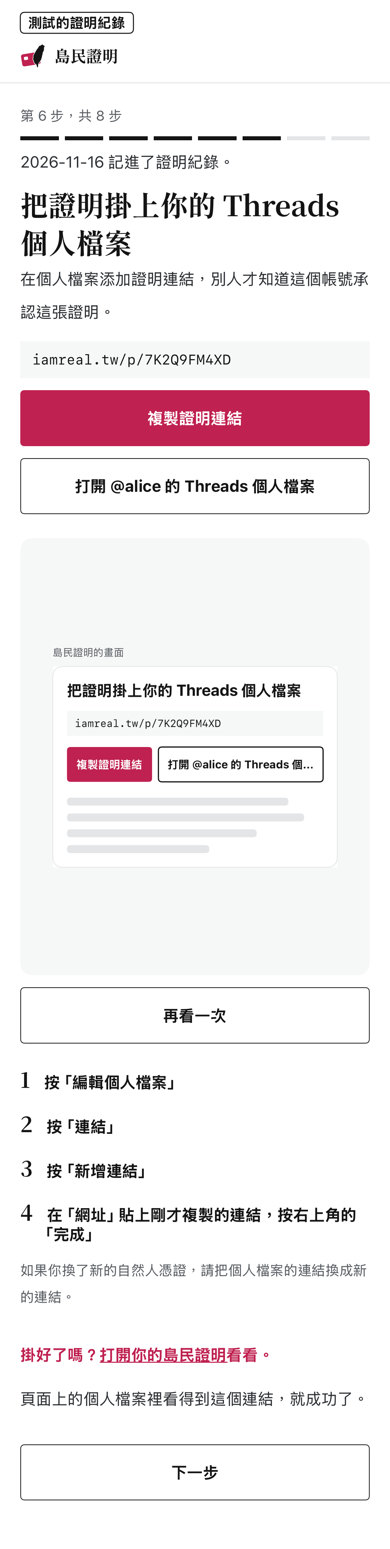
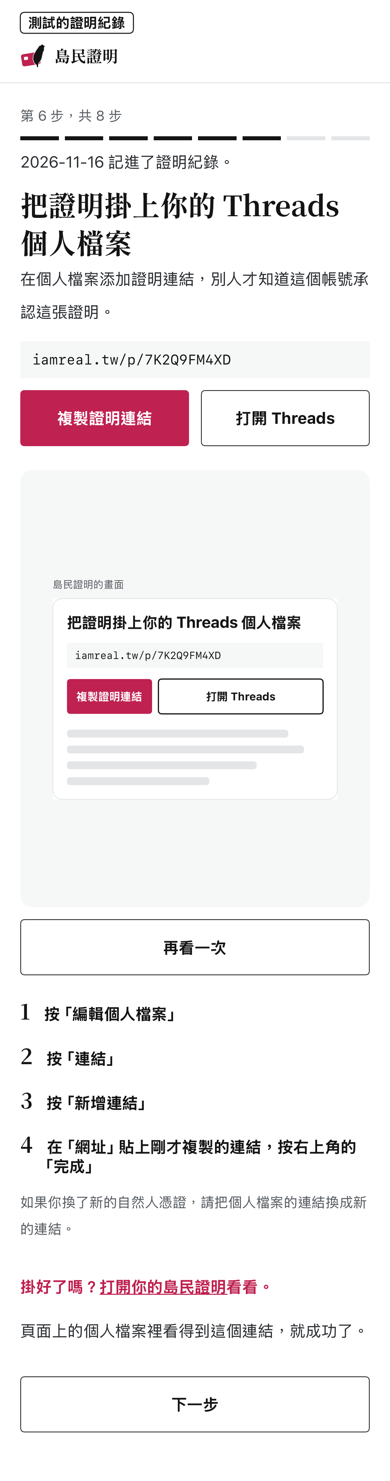
#375 第 6 步的第二顆按鈕寫「打開 Threads」，兩顆在一般大小的字下並排
專案擁有者 2026-11-26 的決定：字縮短成和掛上去那一頁同一顆的字，行為不變
（照舊打開這個帳號的個人檔案），螢幕閱讀器讀完整的「打開 @alice 的 Threads
個人檔案」。card-proof.json 加 hang.open_threads，card-proof.md 的 app 段
照著寫；網頁的第 6 步不動。示範的第一個畫面用同一句。截圖重拍。

diff --git a/ios/Tests/CardProofTests.swift b/ios/Tests/CardProofTests.swift
@@ -187,7 +187,7 @@ final class CardProofTests: XCTestCase {
             "在個人檔案添加證明連結，別人才知道這個帳號承認這張證明。",
             link,
             "複製證明連結",
-            "打開 @alice 的 Threads 個人檔案",
+            "打開 Threads",
             "示範：按「複製證明連結」，到 Threads 的個人檔案按「編輯個人檔案」、「連結」、「新增連結」，貼上網址後按「完成」，個人檔案上多了一行連結。",
             "再看一次",
             "按「編輯個人檔案」", "按「連結」", "按「新增連結」", "在「網址」貼上剛才複製的連結，按右上角的「完成」",
@@ -200,7 +200,7 @@ final class CardProofTests: XCTestCase {
         // The two buttons are side by side, above the demonstration.
         XCTAssertTrue(model.screen.blocks.contains(.sideBySide([
             Button(label: "複製證明連結", action: .copyLink),
-            Button(label: "打開 @alice 的 Threads 個人檔案", action: .openProfile("threads")),
+            Button(label: "打開 Threads", action: .openProfile("threads"), spoken: "打開 @alice 的 Threads 個人檔案"),
         ])))
         // The demonstration, with this card's account and the address of its page. It plays when its picture
         // comes onto the screen (the picture then asks for it, as here): its button stops it, at its last
@@ -243,7 +243,7 @@ final class CardProofTests: XCTestCase {
         let ordinal = try XCTUnwrap(
             html.range(of: #"(?<=<p class="ordinal">第 )[0-9,]+(?= 張島民證明</p>)"#, options: .regularExpression).map { String(html[$0]) },
             "the card's page writes its ordinal")
-        try await press("打開 @alice 的 Threads 個人檔案", in: model)
+        try await press("打開 Threads", in: model)
         XCTAssertEqual(opened.last?.absoluteString, "https://www.threads.com/@alice")
 
         // Step 7: the reminder, offered: three months from today, 9:00 in the evening.
@@ -486,7 +486,10 @@ final class CardProofTests: XCTestCase {
         // Another account: the whole of step 6, for the new account's profile.
         XCTAssertEqual(model.screen.step, 6)
         XCTAssertTrue(model.screen.texts.contains("把證明掛上你的 Threads 個人檔案"))
-        XCTAssertTrue(model.screen.texts.contains("打開 @carol.tw 的 Threads 個人檔案"))
+        XCTAssertTrue(model.screen.blocks.contains(.sideBySide([
+            Button(label: "複製證明連結", action: .copyLink),
+            Button(label: "打開 Threads", action: .openProfile("threads"), spoken: "打開 @carol.tw 的 Threads 個人檔案"),
+        ])))
         XCTAssertFalse(model.screen.texts.contains { $0.hasPrefix("如果你換了新的自然人憑證") })
         // Step 7, asked again (nothing is kept on this phone), and "這次不要": nothing is kept, on to the last step.
         try await press("下一步", in: model)

diff --git a/ios/Tests/DoneScreenTests.swift b/ios/Tests/DoneScreenTests.swift
@@ -105,7 +105,7 @@ final class DoneScreenTests: XCTestCase {
             "在個人檔案添加證明連結，別人才知道這個帳號承認這張證明。",
             "iamreal.tw/p/7K2Q9FM4XD",
             "複製證明連結",
-            "打開 @alice 的 Threads 個人檔案",
+            "打開 Threads",
             // The demonstration: what VoiceOver reads in its place, and its one button.
             "示範：按「複製證明連結」，到 Threads 的個人檔案按「編輯個人檔案」、「連結」、「新增連結」，貼上網址後按「完成」，個人檔案上多了一行連結。",
             "再看一次",
@@ -119,7 +119,7 @@ final class DoneScreenTests: XCTestCase {
         // screen's one main button. The way on is not it, and there is no way back: the record was sent.
         let pair = try XCTUnwrap(screen.blocks.firstIndex(of: .sideBySide([
             Button(label: "複製證明連結", action: .copyLink),
-            Button(label: "打開 @alice 的 Threads 個人檔案", action: .openProfile("threads")),
+            Button(label: "打開 Threads", action: .openProfile("threads"), spoken: "打開 @alice 的 Threads 個人檔案"),
         ])))
         guard case .demo = screen.blocks[pair + 1], case .steps = screen.blocks[pair + 2] else { return XCTFail("the buttons, the demonstration, the four steps: \(screen.blocks)") }
         XCTAssertEqual(inline(screen).map(\.action), [.openProof])
@@ -203,7 +203,7 @@ final class DoneScreenTests: XCTestCase {
         XCTAssertEqual(demo.link, "iamreal.tw/p/7K2Q9FM4XD")
         XCTAssertEqual(demo.address, "https://iamreal.tw/p/7K2Q9FM4XD")
         XCTAssertEqual(demo.words.all, [
-            "島民證明的畫面", "把證明掛上你的 Threads 個人檔案", "複製證明連結", "已複製", "打開 @carol.tw 的 Threads 個人檔案",
+            "島民證明的畫面", "把證明掛上你的 Threads 個人檔案", "複製證明連結", "已複製", "打開 Threads",
             "Threads 的個人檔案（示意）", "編輯個人檔案", "訪客找的就是這一行",
             "按了「編輯個人檔案」之後（示意）", "名稱", "用戶名稱", "個人簡介", "興趣", "連結", "精選",
             "按了「連結」之後（示意）", "新增連結",

diff --git a/ios/App/Screens.swift b/ios/App/Screens.swift
@@ -595,9 +595,11 @@ struct Screens {
         // knows: the order of the demonstration's first screen, which is this one.
         let profiles = done.accounts.compactMap { account in
             Platform.of(account.platform).map { platform in
+                // The short words, so that the two fit side by side; VoiceOver reads whose profile it opens.
                 Button(
-                    label: copy("done.open_profile", ["account": Platform.handle(account.platform, account.username), "platform": platform.name]),
-                    action: .openProfile(account.platform))
+                    label: copy("hang.open_threads", ["platform": platform.name]),
+                    action: .openProfile(account.platform),
+                    spoken: copy("done.open_profile", ["account": Platform.handle(account.platform, account.username), "platform": platform.name]))
             }
         }
         blocks.append(.sideBySide([Button(label: copied ? copy("done.copied") : copy("hang.copy"), action: .copyLink)] + profiles))
@@ -632,7 +634,7 @@ struct Screens {
             title: copy("hang.title_single", ["platform": threads.name]),
             copy: copy("hang.copy"),
             copied: copy("done.copied"),
-            open: copy("done.open_profile", ["account": handle, "platform": threads.name]),
+            open: copy("hang.open_threads", ["platform": threads.name]),
             kickProfile: copy("app_demo_hang.kick_profile"),
             edit: copy("app_demo_hang.edit"),
             found: copy("app_demo_hang.found"),

diff --git a/ios/Tests/ScreensTests.swift b/ios/Tests/ScreensTests.swift
@@ -530,7 +530,6 @@ final class ScreensTests: XCTestCase {
         let demo = try XCTUnwrap(screens.hangDemo(done, playing: false))
         var long = demo
         long.account = "@" + String(repeating: "abcdefghij", count: 3)
-        long.words.open = copy("done.open_profile", ["account": long.account, "platform": "Threads"])
         var moments: [(String, HangDemo, Double)] = [
             ("copy", demo, 1.7), ("profile", demo, 5.1), ("edit", demo, 7.3), ("links", demo, 9.5), ("paste", demo, 12.7),
             ("pasted", demo, 14.4), ("listed", demo, 16.7), ("result", demo, timeline.duration),

diff --git a/ios/App/Screen.swift b/ios/App/Screen.swift
@@ -245,6 +245,9 @@ struct Button: Equatable {
     var label: String
     var action: Action
     var enabled = true
+    /// What VoiceOver reads in the place of the label, where the label is
+    /// a short form of it.
+    var spoken: String?
 }
 
 /// What a button does. CardProofModel.perform does it.

diff --git a/ios/App/CardProofView.swift b/ios/App/CardProofView.swift
@@ -375,6 +375,7 @@ struct ScreenView: View {
                 .padding(.horizontal, 12)
         }
         .buttonStyle(Framed(main: main))
+        .accessibilityLabel(button.spoken ?? button.label)
         .disabled(!button.enabled)
         .opacity(button.enabled ? 1 : 0.45)
     }

diff --git a/ios/README.md b/ios/README.md
@@ -6,7 +6,7 @@
 
 ## 現在有什麼
 
-過卡的八步和流程（[#170](https://github.com/iamreal-tw/iamreal/issues/170)），照網頁版 `web/src/flow.ts` 的順序，卡片感應三次（[#133](https://github.com/iamreal-tw/iamreal/issues/133)）。卡片用 iPhone 的 NFC 讀（[#174](https://github.com/iamreal-tw/iamreal/issues/174)）：每一次感應是系統的一個讀卡面板，讀憑證不用 PIN，簽章前先和第二代卡片建立安全通道（`spec/card-channel.md`）才送 PIN。畫面和啟動畫面照 `design/screens/` 的 `card-proof-app-*`、`app-splash-phone.png`（[#296](https://github.com/iamreal-tw/iamreal/issues/296)），讀取卡片那一步有感應位置的示意圖（`card-proof-app-2-read-iphone-phone.png`）。第 1 到 5 步的字和第 4 步的分流照 `design/copy/card-proof.md`（[#363](https://github.com/iamreal-tw/iamreal/issues/363)）：第 1 步「找附近的戶政事務所」交給 iPhone 的地圖搜尋「戶政事務所」（地圖的連結 `https://maps.apple.com/?q=…`，app 不要位置的權限），另一個連結用瀏覽器開內政部憑證管理中心的網站；第 4 步在卡片沒有宣告時只有填帳號的欄位，已經有宣告時主按鈕是「更新島民證明」，下面是「改成別的帳號」和「收回對 @alice 的宣告」。過卡提醒和設定（[#298](https://github.com/iamreal-tw/iamreal/issues/298)，照 [#93](https://github.com/iamreal-tw/iamreal/issues/93)）照 `design/screens/` 的 `app-reminder-*`、`app-settings-phone.png`：提醒是手機自己排的本機通知。送出之後是三步（[#364](https://github.com/iamreal-tw/iamreal/issues/364)，照 `design/copy/card-proof.md` 第 6 到 8 步），每一步上方寫「共 8 步」：第 6 步把連結掛上個人檔案（再次過卡是只問一句的短版，「沒有看到連結，重新掛上」換成完整的；「複製證明連結」和打開個人檔案的按鈕左右並排，放不下一行時上下排；下面是會動的示範和四步的字，見下一段）；第 7 步問要不要提醒（系統不允許通知時，「打開通知設定」開到系統裡這個 app 的通知設定，回到 app、或從別的步回到這一步時再問一次系統，允許了就照預設排好）；第 8 步是完成和分享。第 7、8 步可以按「上一步」；全部收回時第 5 步之後直接到第 8 步。
+過卡的八步和流程（[#170](https://github.com/iamreal-tw/iamreal/issues/170)），照網頁版 `web/src/flow.ts` 的順序，卡片感應三次（[#133](https://github.com/iamreal-tw/iamreal/issues/133)）。卡片用 iPhone 的 NFC 讀（[#174](https://github.com/iamreal-tw/iamreal/issues/174)）：每一次感應是系統的一個讀卡面板，讀憑證不用 PIN，簽章前先和第二代卡片建立安全通道（`spec/card-channel.md`）才送 PIN。畫面和啟動畫面照 `design/screens/` 的 `card-proof-app-*`、`app-splash-phone.png`（[#296](https://github.com/iamreal-tw/iamreal/issues/296)），讀取卡片那一步有感應位置的示意圖（`card-proof-app-2-read-iphone-phone.png`）。第 1 到 5 步的字和第 4 步的分流照 `design/copy/card-proof.md`（[#363](https://github.com/iamreal-tw/iamreal/issues/363)）：第 1 步「找附近的戶政事務所」交給 iPhone 的地圖搜尋「戶政事務所」（地圖的連結 `https://maps.apple.com/?q=…`，app 不要位置的權限），另一個連結用瀏覽器開內政部憑證管理中心的網站；第 4 步在卡片沒有宣告時只有填帳號的欄位，已經有宣告時主按鈕是「更新島民證明」，下面是「改成別的帳號」和「收回對 @alice 的宣告」。過卡提醒和設定（[#298](https://github.com/iamreal-tw/iamreal/issues/298)，照 [#93](https://github.com/iamreal-tw/iamreal/issues/93)）照 `design/screens/` 的 `app-reminder-*`、`app-settings-phone.png`：提醒是手機自己排的本機通知。送出之後是三步（[#364](https://github.com/iamreal-tw/iamreal/issues/364)，照 `design/copy/card-proof.md` 第 6 到 8 步），每一步上方寫「共 8 步」：第 6 步把連結掛上個人檔案（再次過卡是只問一句的短版，「沒有看到連結，重新掛上」換成完整的；「複製證明連結」和「打開 Threads」左右並排，放不下一行時（系統字體放大、iOS 15）上下排；第二顆照舊打開這個帳號的個人檔案，VoiceOver 讀完整的「打開 @alice 的 Threads 個人檔案」；下面是會動的示範和四步的字，見下一段）；第 7 步問要不要提醒（系統不允許通知時，「打開通知設定」開到系統裡這個 app 的通知設定，回到 app、或從別的步回到這一步時再問一次系統，允許了就照預設排好）；第 8 步是完成和分享。第 7、8 步可以按「上一步」；全部收回時第 5 步之後直接到第 8 步。
 
 第 6 步有掛上去的示範（[#375](https://github.com/iamreal-tw/iamreal/issues/375)，[#369](https://github.com/iamreal-tw/iamreal/issues/369)；`design/copy/card-proof.md`「示範」、`design/motion/README.md`）：五個示意畫面由左到右排成一列，鏡頭從按「複製證明連結」一路帶到個人檔案多出來的那一行，20.7 秒，帳號和網址是這張島民證明自己的，回程是按「連結」那一頁右上角的「完成」（iPhone 的做法）。示範大半進到畫面時自己播一次（一次過卡只自己播一次，從第 7 步按「上一步」回來不再自己播）；下面一顆按鈕，播的時候是「停止」（按了直接到最後一格），停了或播完是「再看一次」；播到哪一步，四步的字裡那一步用淺灰底和左邊一條紅線標出來。系統設定減少動態時照樣播，看的人用那顆按鈕停下來（#369 的決定）。對 VoiceOver 整段示範是一句說明，四步的字照常唸。短版的第 6 步沒有示範；卡片在 Threads 上沒有帳號時也沒有。沒有加任何程式庫：示意畫面是 SwiftUI 自己的元件，每一格的時間來自系統的 `TimelineView`。iOS 15 沒有辦法問系統兩顆按鈕並排放不放得下，一律上下排。
 

diff --git a/design/copy/card-proof.md b/design/copy/card-proof.md
@@ -1041,7 +1041,8 @@ iamreal.tw/p/7K2Q9FM4XD
 - 沒有 QR code，沒有「用手機掛，最快」「或在這台電腦上做」：連結、「複製證明連結」、打開個人檔案和示範直接接在「在個人檔案添加證明連結……」下面
 - 示範見下面「示範」，兩個 app 不畫四張靜態圖；換成示範之前用上面的四步
 - 日期那一行不接「現在可以拔出卡片。」：感應的面板已經說了可以拿開卡片
-- 「打開 @alice 的 Threads 個人檔案」開 Threads 的 app 或瀏覽器；「打開你的島民證明」開瀏覽器。離開 app 不會結束過卡，回來還是這一步
+- 兩顆按鈕左右並排，和示範的第一個畫面相同：「複製證明連結」和「打開 Threads」。第二顆寫短的「打開 Threads」（和掛上去那一頁的那一顆同字，`hang.md`），字是一般大小時兩顆才排得進一行；放不下（系統字體放大、iOS 15）時上下排。它照舊打開這個帳號的個人檔案，開的是 Threads 的 app 或瀏覽器；對螢幕閱讀器讀完整的「打開 @alice 的 Threads 個人檔案」
+- 「打開你的島民證明」開瀏覽器。離開 app 不會結束過卡，回來還是這一步
 
 ```
 2026-11-16 記進了證明紀錄。
@@ -1050,8 +1051,7 @@ iamreal.tw/p/7K2Q9FM4XD
 在個人檔案添加證明連結，別人才知道這個帳號承認這張證明。
 
 iamreal.tw/p/7K2Q9FM4XD
-[ 複製證明連結 ]
-[ 打開 @alice 的 Threads 個人檔案 ]
+[ 複製證明連結 ]　[ 打開 Threads ]
 1　按「編輯個人檔案」
 2　按「連結」
 3　按「新增連結」
@@ -1063,6 +1063,12 @@ iamreal.tw/p/7K2Q9FM4XD
 頁面上的個人檔案裡看得到這個連結，就成功了。
 
 [ 下一步 ]
+```
+
+給螢幕閱讀器的那一句（畫面上不顯示）：
+
+```
+打開 @alice 的 Threads 個人檔案
 ```
 
 短版：
@@ -1273,7 +1279,7 @@ iamreal.tw/p/7K2Q9FM4XD
 | 感應位置，iPhone | 示範：手機正面朝你，不用翻面。把自然人憑證貼到手機背面的上方，停住不動。 |
 | 感應位置，Android | 示範：手機正面朝你，不用翻面。把自然人憑證貼到手機背面，慢慢上下移動，感應到就停住。 |
 
-掛上去的示範裡，五個示意畫面上的字（`app_demo_hang`）。和 `hang.md`「五個示意畫面」逐字相同，寫在這裡是因為兩個 app 畫面上的每一句都從 `card-proof.json` 讀；要改就兩邊一起改。第一個畫面是 app 第 6 步自己的畫面，用第 6 步的字（標題、連結、「複製證明連結」「已複製」、「打開 @alice 的 Threads 個人檔案」），這裡只多它左上角的小字「島民證明的畫面」。帳號、連結照這張島民證明的寫，不在這個表裡。Android 回到「連結」那一頁之後按的 ✕ 是記號，不是字：
+掛上去的示範裡，五個示意畫面上的字（`app_demo_hang`）。和 `hang.md`「五個示意畫面」逐字相同，寫在這裡是因為兩個 app 畫面上的每一句都從 `card-proof.json` 讀；要改就兩邊一起改。第一個畫面是 app 第 6 步自己的畫面，用第 6 步的字（標題、連結、「複製證明連結」「已複製」、「打開 Threads」），這裡只多它左上角的小字「島民證明的畫面」。帳號、連結照這張島民證明的寫，不在這個表裡。Android 回到「連結」那一頁之後按的 ✕ 是記號，不是字：
 
 ```
 島民證明的畫面
